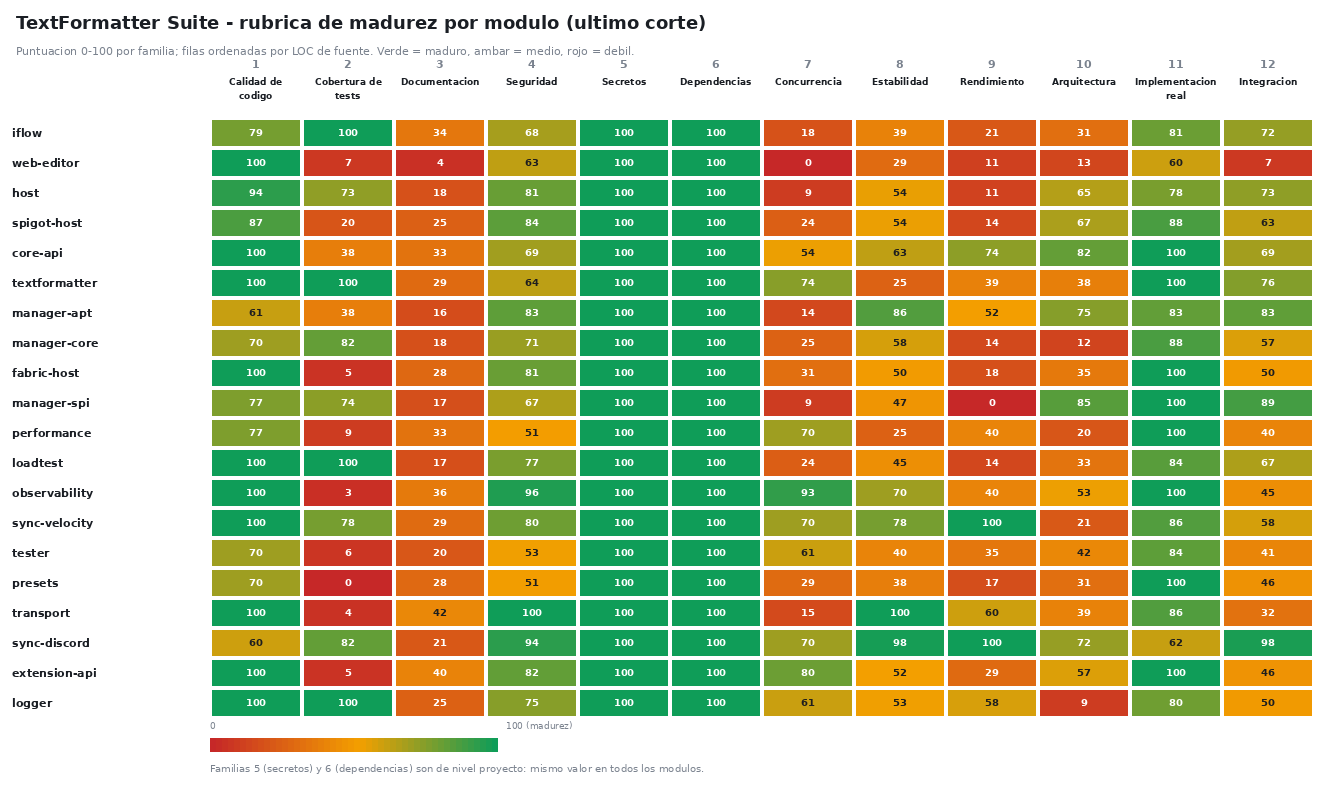
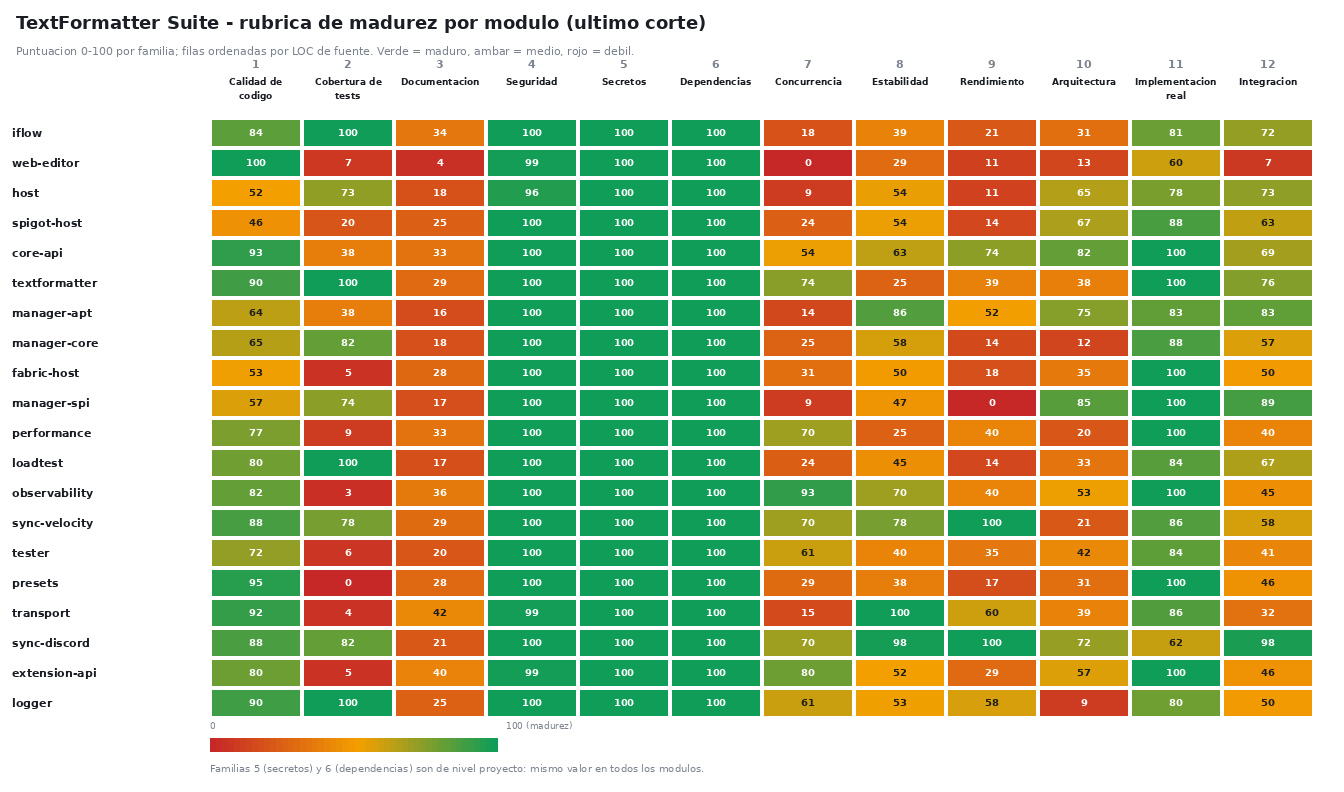
feat(metrics): analizadores reales (PMD/semgrep/gitleaks) conectados a la rubrica
- scan_tools.py: ejecuta gitleaks (historico), semgrep y PMD por snapshot
  -> data/tools/<fecha>.json (opcional; PM_SCAN=1 en run_all.sh)
- maturity.py: familia 1 via PMD (por modulo), 4 via semgrep, 5 via gitleaks
- render_maturity.py: el pie indica las herramientas reales usadas
- README: seccion de analizadores reales

diff --git a/tools/project-metrics/scan_tools.py b/tools/project-metrics/scan_tools.py
@@ -1,0 +1,259 @@
+#!/usr/bin/env python3
+"""
+scan_tools.py - ejecuta analizadores REALES y vuelca sus resultados por fecha
+en data/tools/<fecha>.json, de modo que maturity.py sustituya sus proxies.
+
+Herramientas (ruta por variable de entorno, o autodeteccion en PATH y /tmp/opencode):
+    PM_GITLEAKS   -> fugas de secretos (escaneo de TODO el historico git)
+    PM_SEMGREP    -> hallazgos de seguridad (arbol de cada snapshot)
+    PM_PMD        -> violaciones Java (opcional; requiere java)
+    PM_ESLINT     -> errores JS/TS (opcional; requiere node)
+
+Estrategia:
+  - gitleaks : una sola pasada sobre la historia; cada fuga se asigna a la fecha
+               de su commit. Rellena TODAS las fechas de corte.
+  - semgrep  : extrae el arbol de cada snapshot y lo escanea; cuenta hallazgos
+               totales, por severidad (peso) y por modulo.
+
+Uso:
+    scan_tools.py                       # gitleaks + semgrep en todos los cortes
+    scan_tools.py --only gitleaks
+    scan_tools.py --dates 2026-09-16,2026-10-18
+"""
+import argparse
+import csv
+import json
+import os
+import shutil
+import subprocess
+import sys
+import tempfile
+from collections import Counter
+
+import paths
+
+REPO = os.environ.get("PM_REPO") or paths.REPO
+DATA = paths.DATA
+TOOLS_DIR = os.path.join(DATA, "tools")
+WEIGHT = {"ERROR": 4.0, "WARNING": 1.0, "INFO": 0.5}
+PMD_WEIGHT = {1: 3.0, 2: 2.0, 3: 1.0, 4: 0.5, 5: 0.5}
+
+
+def find_tool(env, names):
+    v = os.environ.get(env)
+    if v and os.path.exists(v):
+        return v
+    for n in names:
+        p = shutil.which(n)
+        if p:
+            return p
+    for n in names:
+        for d in ("/tmp/opencode/bin", "/tmp/opencode/venv/bin"):
+            p = os.path.join(d, n)
+            if os.path.exists(p):
+                return p
+    return None
+
+
+GITLEAKS = find_tool("PM_GITLEAKS", ["gitleaks"])
+SEMGREP = find_tool("PM_SEMGREP", ["semgrep"])
+PMD = os.environ.get("PM_PMD") or (
+    "/tmp/opencode/bin/pmd/bin/pmd"
+    if os.path.exists("/tmp/opencode/bin/pmd/bin/pmd") else None)
+JAVA_HOME = os.environ.get("PM_JAVA_HOME") or os.environ.get("JAVA_HOME") \
+    or ("/opt/javac/x64/21" if os.path.exists("/opt/javac/x64/21/bin/java") else None)
+
+EXCLUDE = ["--exclude", "node_modules", "--exclude", "dist", "--exclude", "build",
+           "--exclude", "out", "--exclude", "target", "--exclude", ".gradle",
+           "--exclude", "vendor", "--exclude", "coverage"]
+
+
+def git(*args):
+    return subprocess.run(["git", "-C", REPO, *args],
+                          capture_output=True, text=True).stdout
+
+
+def module_of(p):
+    parts = p.split("/")
+    if parts[0] == "src" and len(parts) >= 2:
+        return parts[1]
+    if parts[0] == "tools" and len(parts) >= 2:
+        return "tools:" + parts[1]
+    if len(parts) == 1:
+        return "(root)"
+    return parts[0]
+
+
+def snapshot_dates():
+    with open(os.path.join(DATA, "git_daily.csv")) as f:
+        return [r["date"] for r in csv.DictReader(f)]
+
+
+def day_end_cores():
+    out = {}
+    for ln in git("log", "--reverse", "--date=short", "--format=%H|%ad").strip().splitlines():
+        if "|" in ln:
+            h, d = ln.split("|", 1)
+            out[d] = h
+    return out
+
+
+def merge(date, obj):
+    os.makedirs(TOOLS_DIR, exist_ok=True)
+    p = os.path.join(TOOLS_DIR, f"{date}.json")
+    cur = {}
+    if os.path.exists(p):
+        with open(p) as f:
+            cur = json.load(f)
+    cur.update(obj)
+    with open(p, "w") as f:
+        json.dump(cur, f, ensure_ascii=False, indent=0)
+
+
+def run_gitleaks(dates):
+    if not GITLEAKS:
+        print("  gitleaks: no disponible, se omite")
+        return
+    rp = "/tmp/opencode/gitleaks.json"
+    subprocess.run([GITLEAKS, "detect", "--source", REPO, "-f", "json",
+                    "-r", rp, "--no-banner", "--redact"],
+                   capture_output=True, text=True)
+    leaks = []
+    if os.path.exists(rp):
+        try:
+            leaks = json.load(open(rp))
+        except Exception:
+            leaks = []
+    cd = {}
+    for ln in git("log", "--date=short", "--format=%H|%ad").strip().splitlines():
+        if "|" in ln:
+            h, d = ln.split("|", 1)
+            cd[h] = d
+    by = Counter()
+    for x in leaks:
+        h = x.get("Commit") or ""
+        by[cd.get(h, (x.get("Date") or "")[:10])] += 1
+    for d in dates:
+        merge(d, {"gitleaks": {"leaks": by.get(d, 0)}})
+    print(f"  gitleaks: {len(leaks)} fugas -> {len(dates)} fechas")
+
+
+def _extract(commit, workdir):
+    tree = tempfile.mkdtemp(dir=workdir)
+    subprocess.run(f"git -C {REPO} archive {commit} | tar -x -C {tree}",
+                   shell=True, capture_output=True)
+    return tree
+
+
+def run_semgrep(date, commit, workdir):
+    if not SEMGREP:
+        return None
+    tree = _extract(commit, workdir)
+    rp = os.path.join(workdir, "semgrep.json")
+    subprocess.run([SEMGREP, "scan", "--config", "p/default", "--json",
+                    "--output", rp, "--metrics=off", "--quiet", *EXCLUDE, tree],
+                   capture_output=True, text=True)
+    res = []
+    if os.path.exists(rp):
+        try:
+            res = json.load(open(rp)).get("results", [])
+        except Exception:
+            res = []
+    shutil.rmtree(tree, ignore_errors=True)
+    sev = Counter(r["extra"]["severity"] for r in res)
+    bym = Counter()
+    for r in res:
+        p = r.get("path", "")
+        if tree in p:
+            p = os.path.relpath(p, tree)
+        p = p.lstrip("/")
+        if p.startswith("./"):
+            p = p[2:]
+        bym[module_of(p)] += WEIGHT.get(r["extra"]["severity"], 1.0)
+    return {"findings": len(res), "by_severity": dict(sev),
+            "weight": round(sum(WEIGHT.get(r["extra"]["severity"], 1.0) for r in res), 1),
+            "by_module": {k: round(v, 1) for k, v in bym.items()}}
+
+
+def run_pmd(date, commit, workdir):
+    if not PMD or not JAVA_HOME:
+        return None
+    tree = _extract(commit, workdir)
+    rp = os.path.join(workdir, "pmd.json")
+    env = dict(os.environ, JAVA_HOME=JAVA_HOME,
+               PATH=os.path.join(JAVA_HOME, "bin") + os.pathsep + os.environ.get("PATH", ""))
+    # todo el arbol: antes del split (24-sep) el Java vive en la raiz, no en src/
+    subprocess.run([PMD, "check", "-d", tree, "-R", "rulesets/java/quickstart.xml",
+                    "-f", "json", "-r", rp, "--no-progress"],
+                   capture_output=True, text=True, env=env)
+    # modulos con Java (aunque no tengan violaciones)
+    java_mods = {module_of(p) for p in git("ls-tree", "-r", "--name-only", commit)
+                 .splitlines() if p.endswith(".java")}
+    found = []
+    if os.path.exists(rp):
+        try:
+            for f in json.load(open(rp)).get("files", []):
+                found += [(f["filename"], v) for v in f.get("violations", [])]
+        except Exception:
+            found = []
+    shutil.rmtree(tree, ignore_errors=True)
+    bym = Counter()
+    for p, v in found:
+        if tree in p:
+            p = os.path.relpath(p, tree)
+        p = p.lstrip("/")
+        if p.startswith("./"):
+            p = p[2:]
+        bym[module_of(p)] += PMD_WEIGHT.get(int(v.get("priority", 3)), 1.0)
+    return {"violations": len(found), "java_modules": len(java_mods),
+            "by_module": {m: round(bym.get(m, 0.0), 1) for m in sorted(java_mods)}}
+
+
+def main():
+    ap = argparse.ArgumentParser()
+    ap.add_argument("--only", default="all",
+                    choices=["all", "gitleaks", "semgrep", "pmd"])
+    ap.add_argument("--dates", default="", help="lista separada por comas; por defecto todos")
+    a = ap.parse_args()
+
+    all_dates = snapshot_dates()
+    de = day_end_cores()
+    dates = [d for d in (a.dates.split(",") if a.dates else all_dates) if d]
+    print(f"cortes: {len(dates)}  gitleaks={'ok' if GITLEAKS else '-'}  "
+          f"semgrep={'ok' if SEMGREP else '-'}  "
+          f"pmd={'ok' if (PMD and JAVA_HOME) else '-'}")
+
+    if a.only in ("all", "gitleaks"):
+        run_gitleaks(all_dates)
+
+    if a.only in ("all", "semgrep"):
+        work = tempfile.mkdtemp(dir="/tmp/opencode", prefix="scan-")
+        for i, d in enumerate(dates):
+            commit = de.get(d)
+            if not commit:
+                continue
+            r = run_semgrep(d, commit, work)
+            if r:
+                merge(d, {"semgrep": r})
+                print(f"  [{i+1}/{len(dates)}] {d}  hallazgos={r['findings']:<4} "
+                      f"peso={r['weight']:<6} modulos={len(r['by_module'])}")
+        shutil.rmtree(work, ignore_errors=True)
+
+    if a.only in ("all", "pmd"):
+        work = tempfile.mkdtemp(dir="/tmp/opencode", prefix="pmd-")
+        for i, d in enumerate(dates):
+            commit = de.get(d)
+            if not commit:
+                continue
+            r = run_pmd(d, commit, work)
+            if r:
+                merge(d, {"pmd": r})
+                print(f"  [{i+1}/{len(dates)}] {d}  violaciones={r['violations']:<5} "
+                      f"modulos={len(r['by_module'])}")
+        shutil.rmtree(work, ignore_errors=True)
+
+    print("OK -> data/tools/<fecha>.json")
+
+
+if __name__ == "__main__":
+    main()

diff --git a/tools/project-metrics/maturity.py b/tools/project-metrics/maturity.py
@@ -90,7 +90,7 @@ def dep_score(files):
 
 # --- nucleo de la rubrica -----------------------------------------------------
 
-def score_scope(m, dep=0.0, tools=None):
+def score_scope(m, dep=0.0, tools=None, module="(total)"):
     """Devuelve {familia: (score, fuente)} para un ambito (modulo o total)."""
     tools = tools or {}
     src = float(m.get("src_loc", 0))
@@ -108,9 +108,16 @@ def score_scope(m, dep=0.0, tools=None):
     s = clamp(100 - min(40, d("stubs") * 40) - min(30, d("bare_catch") * 40)
               - min(20, d("todo") * 40))
     out["calidad_codigo"] = (s, D)
-    if "pmd" in tools or "eslint" in tools:
-        viol = tools.get("pmd", {}).get("violations", 0) + tools.get("eslint", {}).get("errors", 0)
-        out["calidad_codigo"] = (clamp(100 - min(90, viol / kl * 5)), "pmd+eslint")
+    if "pmd" in tools:
+        p = tools["pmd"]
+        by = p.get("by_module", {})
+        if module == "(total)":
+            v, ok = p.get("violations", 0), True
+        else:
+            v, ok = by.get(module, 0), module in by
+        if ok:
+            base = max(src, 5000) / 1000.0      # suelo: evita ruido en modulos pequenos
+            out["calidad_codigo"] = (clamp(100 - min(100, v / base * 1.5)), "pmd")
 
     # 2. cobertura de tests
     s = 0.70 * sat(test_ratio, 0.30) + 0.30 * sat(d("test_annotations"), 20)
@@ -125,8 +132,10 @@ def score_scope(m, dep=0.0, tools=None):
     s = 0.60 * (100 - min(50, d("bare_catch") * 50)) + 0.40 * sat(d("error_handling"), 25)
     out["seguridad"] = (clamp(s), D)
     if "semgrep" in tools:
-        f = tools["semgrep"].get("findings", 0)
-        out["seguridad"] = (clamp(100 - min(100, f / kl * 10)), "semgrep")
+        sg = tools["semgrep"]
+        w = (sg.get("weight", sg.get("findings", 0)) if module == "(total)"
+             else sg.get("by_module", {}).get(module, 0))
+        out["seguridad"] = (clamp(100 - min(100, w)), "semgrep")
 
     # 5. gestion de secretos (gitleaks). Sin herramienta no hay deteccion real.
     sc, src_tag = (100.0, "asumido") if "gitleaks" not in tools else \
@@ -195,7 +204,7 @@ def main():
     for d in dates:
         tools = load_tools(d)
         for mod, met in by[d].items():
-            sc = score_scope(met, dep_by_date[d], tools)
+            sc = score_scope(met, dep_by_date[d], tools, mod)
             for fam in FAMILIES:
                 v, tag = sc[fam]
                 rows.append([d, mod, fam, round(v, 1), tag])
@@ -218,7 +227,7 @@ def main():
         w = csv.writer(f)
         w.writerow(["module", "family", "score"])
         for mod, met in sorted(by[last].items()):
-            sc = score_scope(met, dep_by_date[last], tools)
+            sc = score_scope(met, dep_by_date[last], tools, mod)
             for fam in FAMILIES:
                 w.writerow([mod, fam, round(sc[fam][0], 1)])
 

diff --git a/tools/project-metrics/render_maturity.py b/tools/project-metrics/render_maturity.py
@@ -71,6 +71,16 @@ def fill(dates, series):
     return out
 
 
+def sources_used():
+    """{familia: {fuentes}} para el ambito (total), excluyendo 'determinista'."""
+    fam = defaultdict(set)
+    with open(os.path.join(DIR, "maturity_long.csv")) as f:
+        for r in csv.DictReader(f):
+            if r["module"] == "(total)" and r["source"] not in ("determinista", "asumido", "estructura"):
+                fam[r["family"]].add(r["source"])
+    return fam
+
+
 def panel_temporal(dates, fam):
     cells = []
     for i, f in enumerate(FAMILIES):
@@ -78,8 +88,11 @@ def panel_temporal(dates, fam):
         col = C.PALETTE[i % len(C.PALETTE)]
         cells.append((LBL[f], [{"xs": dates, "ys": ys, "color": col}],
                       {"ymin": 0, "ymax": 100, "last_label": True}))
+    used = sources_used()
+    real = ", ".join(f"{k}={','.join(sorted(v))}" for k, v in sorted(used.items()))
     ft = ["Hitos: " + "  |  ".join(f"{d[5:]} {lab}" for d, lab in MILESTONES),
-          "Rubrica determinista 0-100 por familia (senales de git; se sustituye por Semgrep/gitleaks/PMD/ESLint si estan disponibles).",
+          "Herramientas reales: " + (real if real else
+                                     "(ninguna; puntuacion determinista)") + ".",
           "Escala fija 0-100 en todos los paneles. Dias sin commit = ultimo valor conocido (estado)."]
     p, _ = C.panel_grid(cells, os.path.join(OUT, "rubrica_familias.png"),
                         "TextFormatter Suite - rubrica de madurez (12 familias), corte diario",

diff --git a/tools/project-metrics/README.md b/tools/project-metrics/README.md
@@ -31,10 +31,11 @@ Eso ejecuta, en orden:
 | 1 | `extract_git.py` | Un snapshot por día con commit (días vacíos rellenados). Métricas de estado y de actividad, por módulo y total. |
 | 2 | `extract_chat.py` | Parsea `chat.log` y produce la tabla de eventos y las métricas diarias de la narrativa. |
 | 3 | `join_commits.py` | Resuelve los `git commit` vistos en el chat contra el histórico real. |
-| 4 | `maturity.py` | Rúbrica de madurez: 12 familias, 0–100, por módulo y por corte. |
-| 5 | `render_pil.py` | Paneles `panel_git`, `panel_chat`, `panel_actividad` y gráficas por módulo. |
-| 6 | `render_extra.py` | `heatmap_modulos` (módulo × tiempo) y `crecimiento` (primer vs último corte). |
-| 7 | `render_maturity.py` | `rubrica_familias` (evolución por familia) y `rubrica_matriz` (módulo × familia). |
+| 4 | `scan_tools.py` | *(opcional)* Analizadores reales (semgrep/gitleaks) → `data/tools/<fecha>.json`. |
+| 5 | `maturity.py` | Rúbrica de madurez: 12 familias, 0–100, por módulo y por corte. |
+| 6 | `render_pil.py` | Paneles `panel_git`, `panel_chat`, `panel_actividad` y gráficas por módulo. |
+| 7 | `render_extra.py` | `heatmap_modulos` (módulo × tiempo) y `crecimiento` (primer vs último corte). |
+| 8 | `render_maturity.py` | `rubrica_familias` (evolución por familia) y `rubrica_matriz` (módulo × familia). |
 
 ## La capa narrativa: `chat.log`
 
@@ -120,6 +121,29 @@ Las familias **5 (secretos)** y **6 (dependencias)** son de nivel proyecto: el
 mismo valor se aplica a todos los módulos. Las puntuaciones de densidad sobre
 códigos muy pequeños pueden saturar (base monolítica inicial); es un artefacto
 conocido y documentado de la heurística.
+
+## Analizadores reales (opcional)
+
+Las familias 1 (calidad), 4 (seguridad) y 5 (secretos) se aproximan de forma
+determinista; si hay herramientas disponibles, `scan_tools.py` ejecuta las
+reales y `maturity.py` sustituye su proxy:
+
+| Herramienta | Familia | Qué mide |
+|---|---|---|
+| `gitleaks` | 5 · Secretos | fugas en **todo el histórico** git, asignadas a la fecha del commit |
+| `semgrep` | 4 · Seguridad | hallazgos de seguridad por snapshot (peso: ERROR=4, WARNING=1) |
+| `pmd` | 1 · Calidad | violaciones Java por snapshot (árbol completo; cubre el layout pre-split) |
+| `eslint` | 1 · Calidad | reservado (JS/TS) |
+
+Rutas por entorno o autodetección: `PM_GITLEAKS`, `PM_SEMGREP`, `PM_PMD`,
+`PM_ESLINT`, `PM_JAVA_HOME`. Son **opcionales**: sin ellas la rúbrica usa los
+proxies y el resto del pipeline no cambia.
+
+```bash
+PM_SCAN=1 ./run_all.sh                 # con analizadores si están
+python3 scan_tools.py --only semgrep   # solo semgrep
+python3 scan_tools.py --dates 2026-10-18
+```
 
 ## Salidas
 
